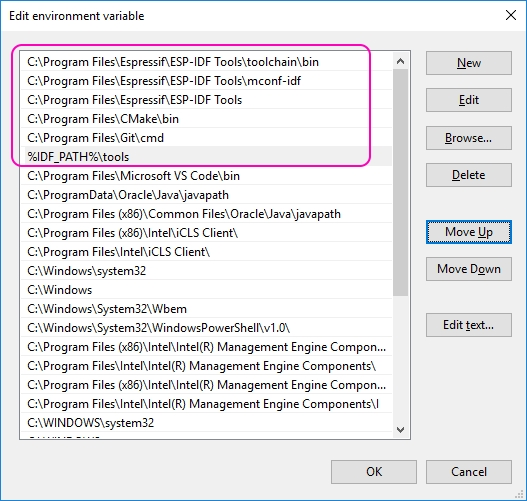
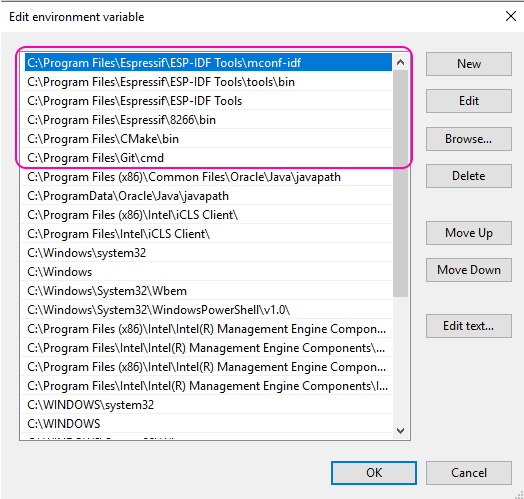
Review after IDF readme got better

Changed region(s): [[0.0, 0.0, 1.0, 1.0]]

diff --git a/README.md b/README.md
@@ -55,21 +55,25 @@ You need the following:<br/>
 [To Top](#Steps)
 
 ## Setup toolchain
-
-Next you need tools for compilation and linking your projects
-Go to below link and follow instructions
-https://docs.espressif.com/projects/esp-idf/en/feature-cmake/get-started/index.html#setup-toolchain
-
-You need to download all-in-one esp-idf tools installer
-<a href="https://dl.espressif.com/dl/esp-idf-tools-setup-1.1.exe">https://dl.espressif.com/dl/esp-idf-tools-setup-1.1.exe</a>
-and get the latest ESP-IDF framework
-
-<a href="https://docs.espressif.com/projects/esp-idf/en/feature-cmake/get-started/index.html#get-started-get-esp-idf">How to get ESP-IDF</a>
-
 [To Top](#Steps)
+Next you need tools for compilation and linking your projects
+Go to below link and follow instructions. I will link to the individual stages as well below:
+I have not tested this process yet to see if there is more information 'for dummies' needed. The information
+changes often enough and ESPRESSIF are getting decent documentation.
+https://docs.espressif.com/projects/esp-idf/en/latest/get-started/
 
+Step 1. Install prerequisites
+https://docs.espressif.com/projects/esp-idf/en/latest/get-started/#step-1-install-prerequisites
+
+Step 2. Get ESP-IDF
+https://docs.espressif.com/projects/esp-idf/en/latest/get-started/#step-2-get-esp-idf
+
+Step 3. Set up the tools
+https://docs.espressif.com/projects/esp-idf/en/latest/get-started/#step-3-set-up-the-tools
+
+Step 4. Set up the environment variables
+https://docs.espressif.com/projects/esp-idf/en/latest/get-started/#step-4-set-up-the-environment-variables
 ## Setup and verify environment variables
-
 Make sure all path and idf variables are present and pointing to the *right locations* as it had changed between for me compared to the original guide. 
 IDF_PATH is cruicial. 
 You can use run-command way to set them up with 
@@ -78,8 +82,19 @@ You can use run-command way to set them up with
 Example setup:
 <br/>
 
+This is the System Variables -> Path. I have the ESP-IDF and ESP8266 toolchain installed so need
+paths to both of the build tools
 <img src="vsc-guide-2.jpg" >
+Here you can see the Environment Variables. See that I have two IDF_PATH variables referring to the 
+esp-idf and esp8266. When I develop in 8266, the IDF_PATH needs to be to that SDK. I add a '32_' to the 
+start of the ESP32 variable. I just change the Variable name, not the Value
+For 8266 development, my variables are - 32_IDF_PATH, IDF_PATH
+For ESP32 development, my variables are - IDF_PATH, 8266_IDF_PATH
+respectively. This IDF_PATH is used in the SDK and the VSC. The first entry in Path (circled) is from 
+the variable IDF_PATH
 <img src="vsc-guide-3.jpg" >
+This is what it looks like using the variable.
+<img src="vsc-guide-3a.jpg" >
 
 **Make sure you install Git for Windows**<br/>
 <a href="https://git-scm.com/downloads">Git Client download page</a>
@@ -115,6 +130,9 @@ Perform a regular Find and Replace \ / (converting a backslash to a forward slas
 Perform a regular Find **C:/.../esp-idf** <- All of the bits in the middle please. Replace with 
 >${env:IDF_PATH}
 
+Seems that Export-Csv is not working so next do a find and replace on 
+\r with ,\r (you will need to select "Extended")
+
 Unfortunately the engineers at Espressif are not nice. So they include some of their .h files
 in a different directory (twats) for example components/json/cJSON. Seriously WTF? 
 
@@ -135,7 +153,7 @@ This should also have (assumming the toolchain is installed as shown)
   "C:/Program Files/Espressif/ESP-IDF Tools/toolchain/lib/gcc/xtensa-esp32-elf/5.2.0/include-fixed"}
 ```
 
-Now copy this entire array and replace the "This Section Please." Press SAVE.
+Now copy this entire array and replace the "Replace this section please." Press SAVE.
 ```json
   {
     "intelliSenseMode": "clang-x64",
@@ -169,6 +187,12 @@ if you want to flash and immediately monitor use
  
 `build` will build project with changes <br/>
 `fullclean` will erase old files and refresh the whole build for new compilation <br/>
+
+Create batch files for these locally because we are lazy and just want to press f followed by enter.
+I suggest this includes 'cls' so that you get a clean screen before compiling.
+f.bat
+cls
+idf.py -p COM4 flash
 
 Typical project file structure: <br/>
 
